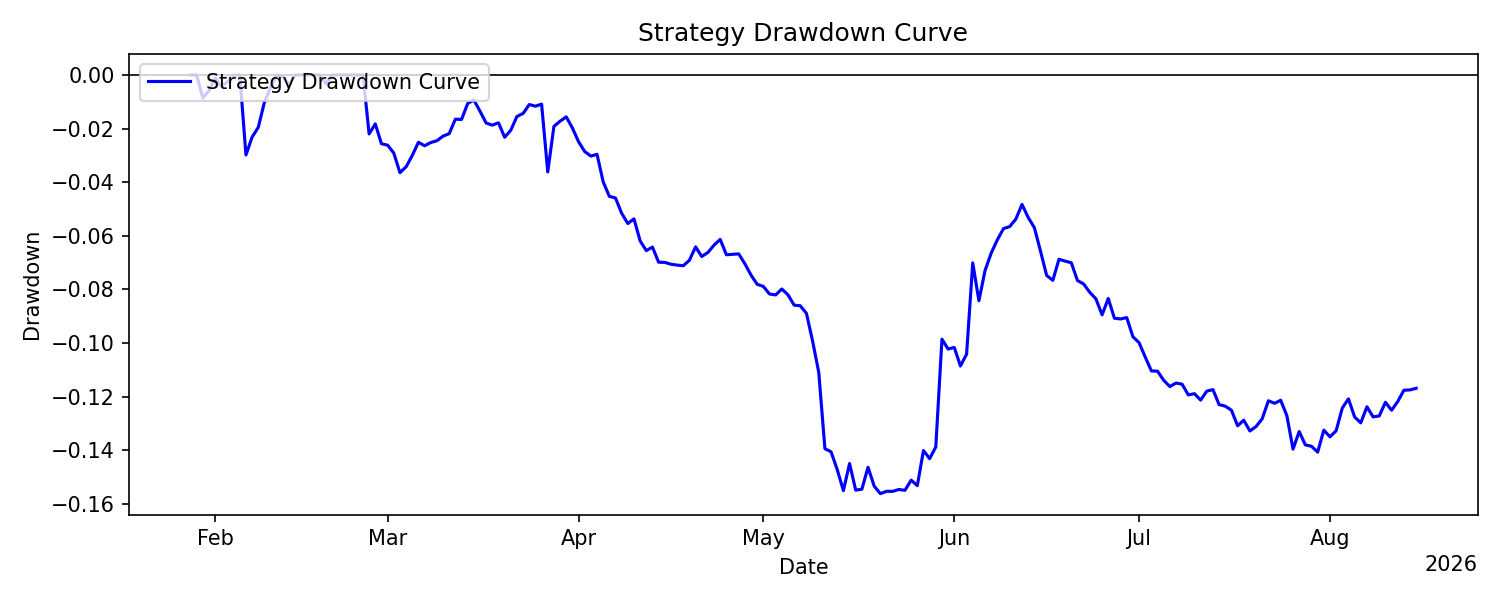
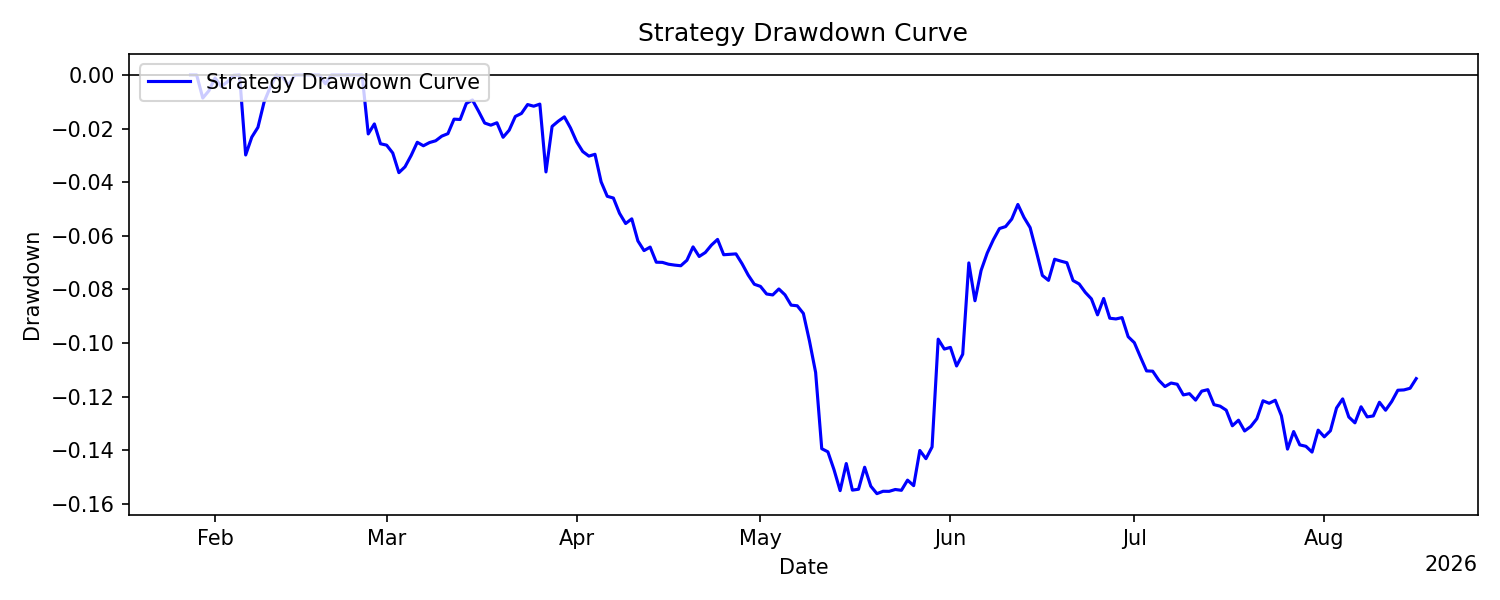
Update reports: 2026-08-16 00:05:10 UTC

diff --git a/README.md b/README.md
@@ -24,26 +24,26 @@ All results are live and reported net of transaction costs and slippage.
 <!-- METRICS_START -->
 | metric                       |        values |
 |:-----------------------------|--------------:|
-| Number of Observations       | 200           |
-| Mean Daily Return            |  -0.000300694 |
-| Daily Volatility             |   0.00824599  |
-| Mean Annualized Return       |  -0.109753    |
-| Annualized Volatility        |   0.157539    |
+| Number of Observations       | 201           |
+| Mean Daily Return            |  -0.000278884 |
+| Daily Volatility             |   0.00823116  |
+| Mean Annualized Return       |  -0.101793    |
+| Annualized Volatility        |   0.157256    |
 | Maximum Drawdown             |  -0.156146    |
-| Max Drawdown Duration (Days) | 171           |
-| Sharpe                       |  -0.696672    |
-| Sortino                      |  -0.958947    |
-| Calmar                       |  -0.702889    |
-| CAGR                         |  -0.114927    |
-| Skewness                     |   0.65222     |
-| Excess Kurtosis              |   8.87896     |
-| Win Rate                     |   0.48        |
-| Profit Factor                |   0.892       |
-| VaR 1%                       |  -0.0269025   |
-| CVaR 1%                      |  -0.030925    |
-| VaR 5%                       |  -0.0106241   |
-| CVaR 5%                      |  -0.0201626   |
-| Correlation with BTC         |   0.00770352  |
+| Max Drawdown Duration (Days) | 172           |
+| Sharpe                       |  -0.647305    |
+| Sortino                      |  -0.889391    |
+| Calmar                       |  -0.651907    |
+| CAGR                         |  -0.107812    |
+| Skewness                     |   0.645174    |
+| Excess Kurtosis              |   8.8969      |
+| Win Rate                     |   0.482587    |
+| Profit Factor                |   0.899333    |
+| VaR 1%                       |  -0.0268727   |
+| CVaR 1%                      |  -0.0295742   |
+| VaR 5%                       |  -0.0105868   |
+| CVaR 5%                      |  -0.0192921   |
+| Correlation with BTC         |   0.00756323  |
 <!-- METRICS_END -->
 
 ## Sharpe Statistics
@@ -55,14 +55,14 @@ All results are live and reported net of transaction costs and slippage.
 | metric                     |   values |
 |:---------------------------|---------:|
 | alpha                      |   0.05   |
-| t-statistic                |  -0.5157 |
-| p-value                    |   0.6066 |
-| Daily Sharpe Ratio         |  -0.0365 |
-| Annualized Sharpe Ratio    |  -0.6967 |
-| Sharpe Standard Error      |   1.3727 |
-| C.I. Lower Bound           |  -3.3872 |
-| C.I. Upper Bound           |   1.9939 |
-| Bootstrap C.I. Lower Bound |  -3.6809 |
-| Bootstrap C.I. Upper Bound |   2.5708 |
+| t-statistic                |  -0.4804 |
+| p-value                    |   0.6315 |
+| Daily Sharpe Ratio         |  -0.0339 |
+| Annualized Sharpe Ratio    |  -0.6473 |
+| Sharpe Standard Error      |   1.3677 |
+| C.I. Lower Bound           |  -3.3279 |
+| C.I. Upper Bound           |   2.0333 |
+| Bootstrap C.I. Lower Bound |  -3.6194 |
+| Bootstrap C.I. Upper Bound |   2.5746 |
 <!-- SHARPE_END -->
 
